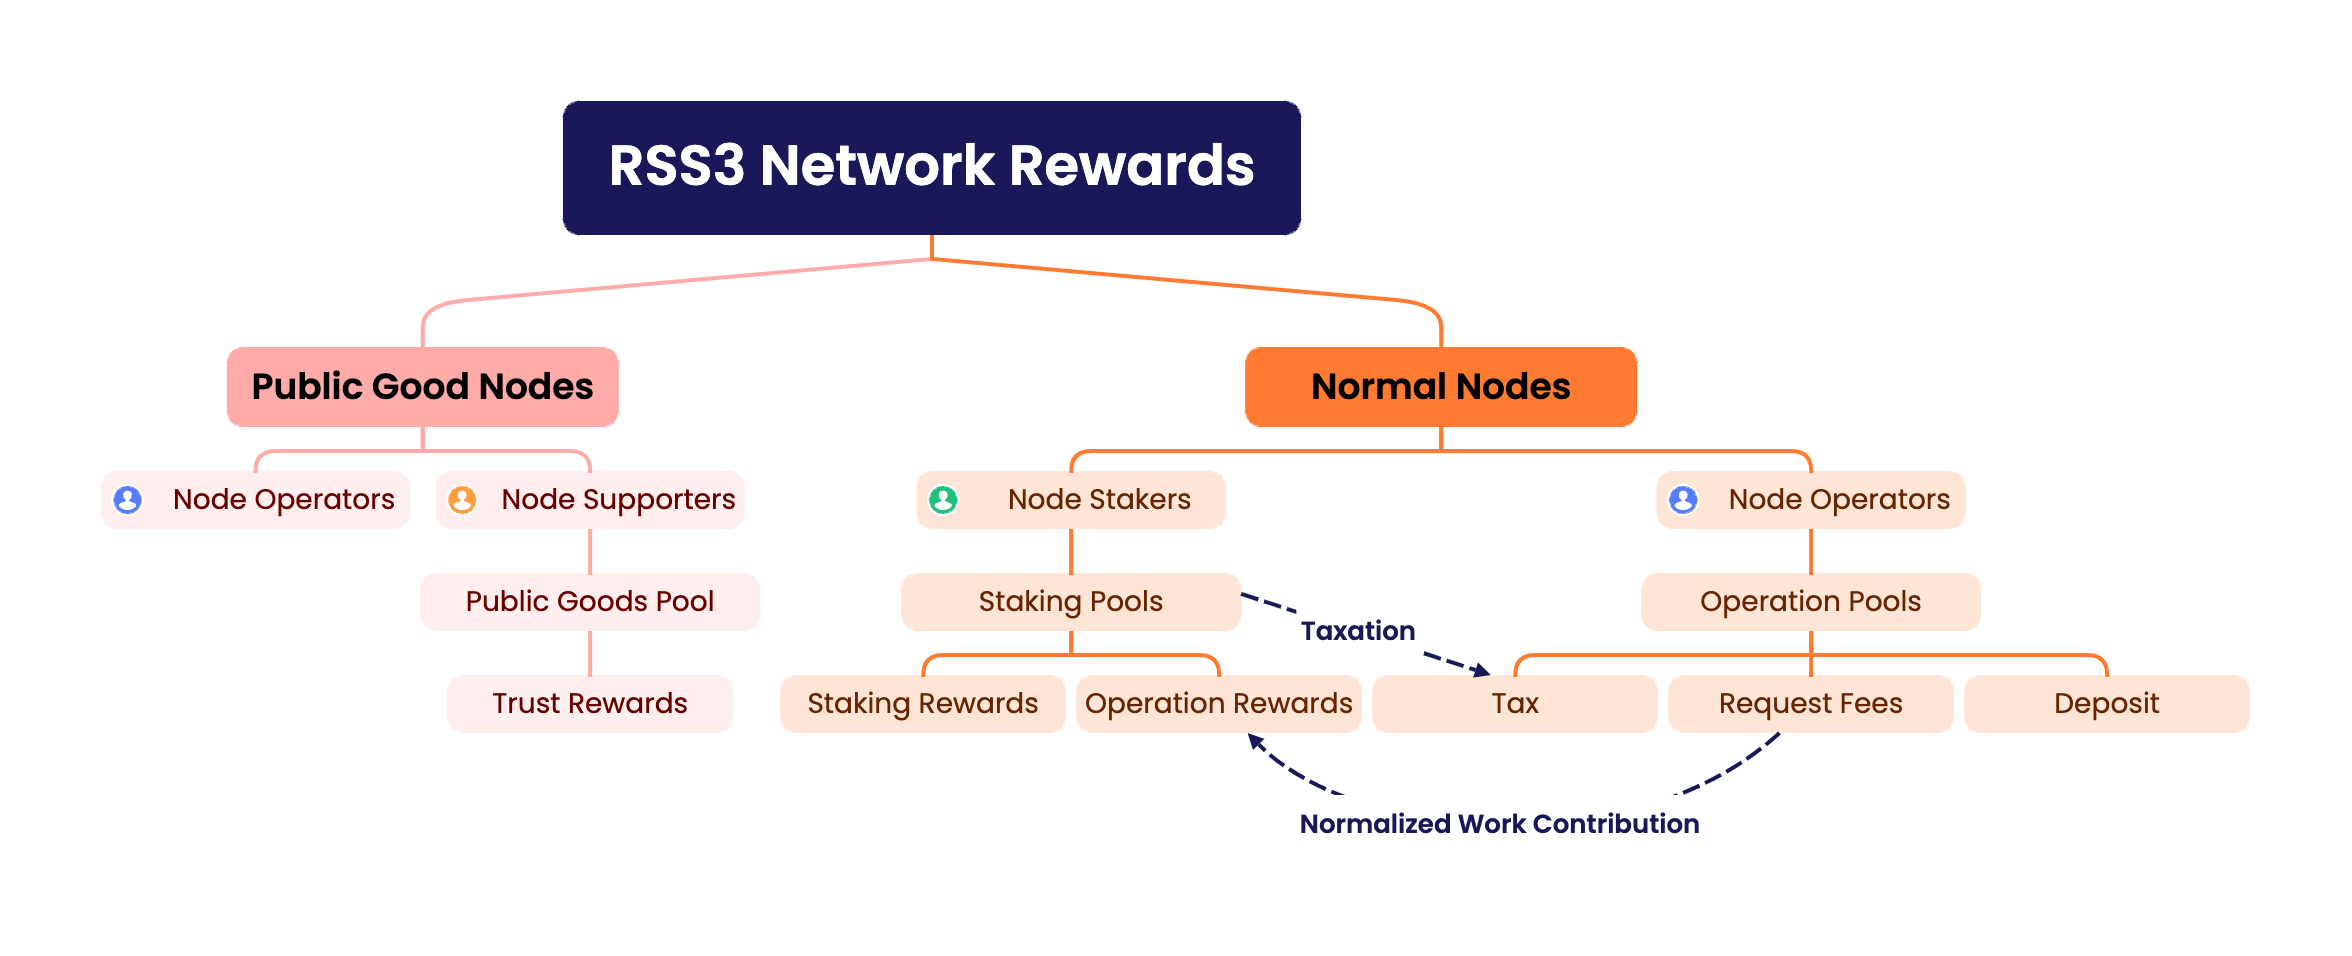
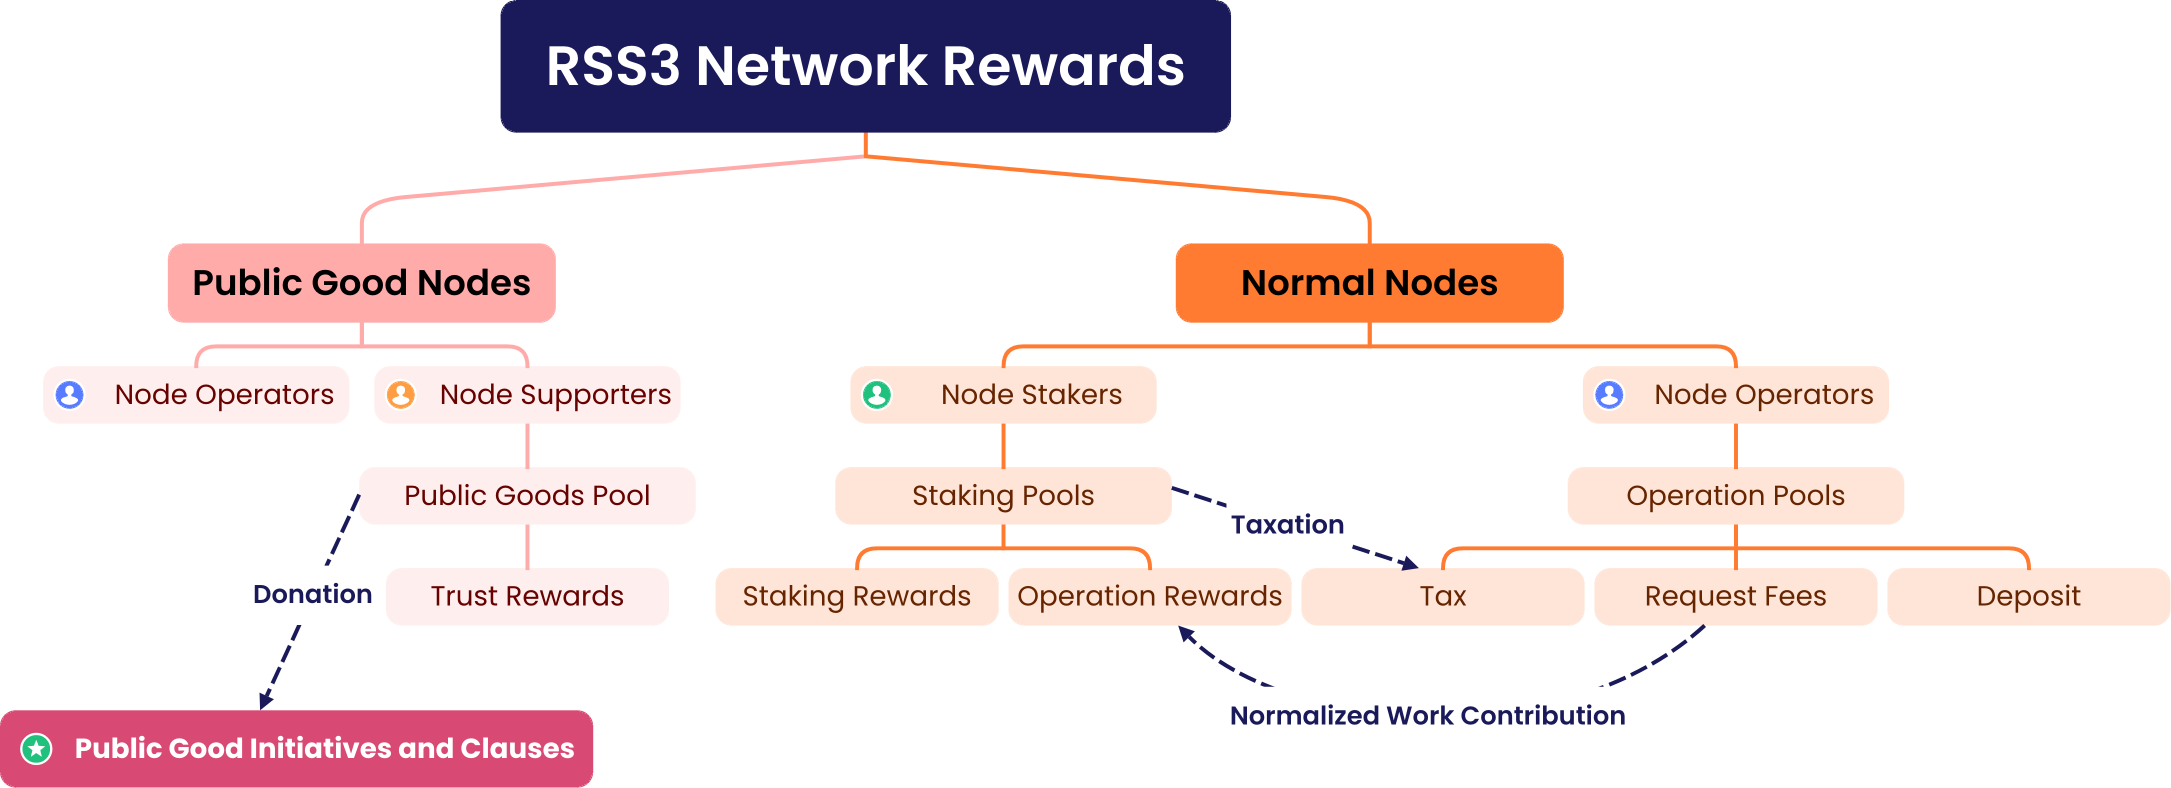
draft: add public good initiatives

diff --git a/sections/tokenomics/stake.tex b/sections/tokenomics/stake.tex
@@ -1,6 +1,6 @@
 
 \subsection{Staking, Trust and Chip}
-Network participants are incentivized to secure the Network by staking or entrusting their tokens to a \glsfmtlong{SN}.
+Network participants are incentivized to secure and improve the Network with their \$RSS3 tokens.
 
 \subsubsection{Staking}
 
@@ -8,12 +8,12 @@ A Normal Node accepts staking into its \stakingPool, the amount of staked \$RSS3
 
 \subsubsection{Trust}
 
-A Public Good Node does not have a stakingPool and does not participate in any form of incentivization. Instead, network participants entrust such a Node, and their tokens are stored into a \glsfmtlong{PGP}. Higher trust Nodes has an increased likelihood of receiving requests.
+A Public Good Node does not have a \glsfmtlong{SP} and does not participate in any form of incentivization. Instead, network participants may choose to entrust such a Node, and their tokens are stored into a \glsfmtlong{PGP}. The trust level affects the likelihood of routing requests to a Public Good Node.
 
 \subsubsection{Chip}
 
 A Chip \chip\ is an ERC-721 Non-Fungible Tokens (NFTs) representing a network participant's stake in a particular Node.
-When a network participant stakes or entrusts tokens to a Node \node, the participant receives Chips RSS3-\node\ ($\chip_\node$) in return.
+When a network participant stakes or entrusts tokens to a Node \node, the participant automatically receives Chips RSS3-\node\ ($\chip_\node$).
 
 \paragraph{Minting}
 The number of Chips minted for a particular staking or entrusting \staking\trust\ is determined by:

diff --git a/sections/tokenomics/reward_pools.tex b/sections/tokenomics/reward_pools.tex
@@ -1,7 +1,10 @@
 \subsection{Reward Pools}
 \label{subsec:reward_pools}
 
-This section introduces the three reward pools: the \glsfirst{OP}, the \glsfirst{SP}, and the \glsfirst{PGP}. See \Cref{fig:network-rewards} for an illustration.
+The \glsfmtlong{R3N} allocates a portion of \$RSS3's total supply to incentivize network participants, referred to as the \glsfirst{NR},
+and allocated into reward pools.
+
+This section introduces three reward pools: the \glsfirst{OP}, the \glsfirst{SP}, and the \glsfirst{PGP}. See \Cref{fig:network-rewards} for an illustration.
 
 \subsubsection{\glsfmtlong{OP} (\operationPool)}
 \label{subsubsec:operation_pool}
@@ -33,6 +36,7 @@ A tax \tax\ set by its \glsfmtlong{NO} is then applied to the received Rewards.
 
 \subsubsection{\glsfmtlong{PGP} (\publicGoodPool)}
 
-A \glsfirst{PGP} is a unique reward pool that is shared by all Public Good Nodes.
+As Public Good Nodes do not participate in incentivization, they collectively share a \glsfirst{PGP} for network participants to show their support towards Public Goods provision.
 
-As Public Good Nodes do not have their own \stakingPool, network participants entrust their tokens to the \publicGoodPool\ and signify their support to a designated Public Good Node.
+This pool plays a crucial role in facilitating the provision of Public Goods and reinforcing the robustness of the Network.
+The pool has a unique \tax\ set by the Network, and the proceeds are donated to initiatives and clauses that are oriented towards Public Good.

diff --git a/sections/tokenomics/network_rewards.tex b/sections/tokenomics/network_rewards.tex
@@ -81,6 +81,8 @@ The amount of tax collectible is capped at a maximum of \taxCap\ times the amoun
     * \taxRate_{\node, \epoch})
 \end{equation}
 
+For the \glsfmtlong{PGP}, the tax rate is set by the Network to collect donations to support Public Good initiatives and clauses.
+
 \subsubsection{Final Allocations}
 \label{subsubsec:allocation}
 
@@ -103,6 +105,7 @@ The total amount of tokens allocated to a Public Good Node's \publicGoodPool\ fo
 
 \begin{equation}
     \networkReward_{\trust|\publicGoodNode, \epoch}
+    - \tax_{\epoch}
 \end{equation}
 
 

diff --git a/sections/tokenomics.tex b/sections/tokenomics.tex
@@ -16,10 +16,7 @@
 In this seciton, we introduce the detailed tokenomics of the \glsfmtlong{R3N}. We present the concept of Reward Pools, the \glsfmtlong{NR}'s calculation and allocation formulas, and the slashing mechanism employed to enforce the Network's security and stability.
 
 \input{sections/tokenomics/node.tex}
-\input{sections/tokenomics/stake.tex}
-
 \input{sections/tokenomics/reward_pools.tex}
-
+\input{sections/tokenomics/stake.tex}
 \input{sections/tokenomics/network_rewards.tex}
-
 \input{sections/tokenomics/slashing.tex}
